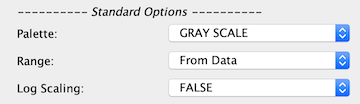
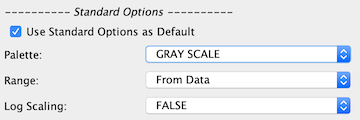
Color Manip: added preference to allow original reader imageInfo

diff --git a/snap-help/src/main/resources/org/esa/snap/snap/help/docs/desktop/ColorManipulationPreferences.html b/snap-help/src/main/resources/org/esa/snap/snap/help/docs/desktop/ColorManipulationPreferences.html
@@ -93,6 +93,9 @@
 </p>
 
 <ul>
+    <li><b>Use Standard Options as Default</b> - Use following "Standard Options" as default
+        when opening a band, otherwise use settings from the file reader.
+    </li>
     <li>
         <b>Palette:</b> - The palette to use for the scheme.
 

diff --git a/snap-rcp/src/main/java/org/esa/snap/rcp/preferences/general/ColorManipulationController.java b/snap-rcp/src/main/java/org/esa/snap/rcp/preferences/general/ColorManipulationController.java
@@ -54,14 +54,19 @@ import java.awt.*;
 public final class ColorManipulationController extends DefaultConfigController {
 
     Property restoreDefaults;
+    Property useStandardOptionsAsDefault;
 
     boolean propertyValueChangeEventsEnabled = true;
 
 
-    Enablement enablementDefaultColorBlindCpd;
-    Enablement enablementDefaultSchemeStandardCpd;
-    Enablement enablementDefaultSchemeColorBlindCpd;
-    Enablement enablementDefaultStandardCpd;
+    Enablement enablementGeneralPalette;
+    Enablement enablementGeneralRange;
+    Enablement enablementGeneralLog;
+
+
+
+
+
 
 
     protected PropertySet createPropertySet() {
@@ -86,6 +91,7 @@ public final class ColorManipulationController extends DefaultConfigController {
         initPropertyDefaults(context, ColorManipulationDefaults.PROPERTY_PALETTE_DEFAULT_ANOMALIES_KEY, ColorManipulationDefaults.PROPERTY_PALETTE_DEFAULT_ANOMALIES_DEFAULT);
 
         initPropertyDefaults(context, ColorManipulationDefaults.PROPERTY_GENERAL_SECTION_KEY, true);
+        initPropertyDefaults(context, ColorManipulationDefaults.PROPERTY_GENERAL_CUSTOM_KEY, ColorManipulationDefaults.PROPERTY_GENERAL_CUSTOM_DEFAULT);
         initPropertyDefaults(context, ColorManipulationDefaults.PROPERTY_GENERAL_PALETTE_KEY, ColorManipulationDefaults.PROPERTY_GENERAL_PALETTE_DEFAULT);
         initPropertyDefaults(context, ColorManipulationDefaults.PROPERTY_GENERAL_RANGE_KEY, ColorManipulationDefaults.PROPERTY_GENERAL_RANGE_DEFAULT);
         initPropertyDefaults(context, ColorManipulationDefaults.PROPERTY_GENERAL_LOG_KEY, ColorManipulationDefaults.PROPERTY_GENERAL_LOG_DEFAULT);
@@ -173,11 +179,13 @@ public final class ColorManipulationController extends DefaultConfigController {
     @Override
     protected void configure(BindingContext context) {
 
+        configureGeneralCustomEnablement(context);
 
         // Handle resetDefaults events - set all other components to defaults
         restoreDefaults.addPropertyChangeListener(evt -> {
             handleRestoreDefaults(context);
         });
+
 
 
         // Add listeners to all components in order to uncheck restoreDefaults checkbox accordingly
@@ -252,6 +260,11 @@ public final class ColorManipulationController extends DefaultConfigController {
     }
 
 
+
+
+
+
+
     /**
      * Set restoreDefault component because a property has changed
      * @param context
@@ -291,21 +304,43 @@ public final class ColorManipulationController extends DefaultConfigController {
 
 
 
+    /**
+     * Configure enablement of the components
+     *
+     * @param context
+     * @author Daniel Knowles
+     */
+    private void configureGeneralCustomEnablement(BindingContext context) {
 
 
+        enablementGeneralPalette = context.bindEnabledState(ColorManipulationDefaults.PROPERTY_GENERAL_PALETTE_KEY, true,
+                ColorManipulationDefaults.PROPERTY_GENERAL_CUSTOM_KEY, true);
+
+        enablementGeneralRange = context.bindEnabledState(ColorManipulationDefaults.PROPERTY_GENERAL_RANGE_KEY, true,
+                ColorManipulationDefaults.PROPERTY_GENERAL_CUSTOM_KEY, true);
+
+        enablementGeneralLog = context.bindEnabledState(ColorManipulationDefaults.PROPERTY_GENERAL_LOG_KEY, true,
+                ColorManipulationDefaults.PROPERTY_GENERAL_CUSTOM_KEY, true);
+
+
+
+        // handle it the first time so bound properties get properly enabled
+        handleGeneralCustom();
+    }
 
     /**
      * Handles enablement of the components
      *
      * @author Daniel Knowles
      */
-    private void handleUseColorBlindEnablement() {
-        enablementDefaultColorBlindCpd.apply();
-        enablementDefaultSchemeColorBlindCpd.apply();
-
-        enablementDefaultStandardCpd.apply();
-        enablementDefaultSchemeStandardCpd.apply();
+    private void handleGeneralCustom() {
+        enablementGeneralPalette.apply();
+        enablementGeneralRange.apply();
+        enablementGeneralLog.apply();
     }
+
+
+
 
 
 
@@ -346,10 +381,17 @@ public final class ColorManipulationController extends DefaultConfigController {
 
         // General Options
 
+
         @Preference(label = ColorManipulationDefaults.PROPERTY_GENERAL_SECTION_LABEL,
                 key = ColorManipulationDefaults.PROPERTY_GENERAL_SECTION_KEY,
                 description = ColorManipulationDefaults.PROPERTY_GENERAL_SECTION_TOOLTIP)
         boolean generalBehaviorSection = true;
+
+
+        @Preference(label = ColorManipulationDefaults.PROPERTY_GENERAL_CUSTOM_LABEL,
+                key = ColorManipulationDefaults.PROPERTY_GENERAL_CUSTOM_KEY,
+                description = ColorManipulationDefaults.PROPERTY_GENERAL_CUSTOM_TOOLTIP)
+        boolean generalCustomSchemes = ColorManipulationDefaults.PROPERTY_GENERAL_CUSTOM_DEFAULT;
 
         @Preference(label = ColorManipulationDefaults.PROPERTY_GENERAL_PALETTE_LABEL,
                 key = ColorManipulationDefaults.PROPERTY_GENERAL_PALETTE_KEY,
@@ -374,6 +416,9 @@ public final class ColorManipulationController extends DefaultConfigController {
                         ColorManipulationDefaults.PROPERTY_GENERAL_LOG_OPTION2,
                         ColorManipulationDefaults.PROPERTY_GENERAL_LOG_OPTION3})
         String generalLog = ColorManipulationDefaults.PROPERTY_GENERAL_LOG_DEFAULT;
+
+
+
 
 
 

diff --git a/snap-rcp/src/main/java/org/esa/snap/rcp/colormanip/ColorManipulationFormImpl.java b/snap-rcp/src/main/java/org/esa/snap/rcp/colormanip/ColorManipulationFormImpl.java
@@ -153,6 +153,7 @@ class ColorManipulationFormImpl implements SelectionSupport.Handler<ProductScene
     private BrightnessContrastPanel brightnessContrastPanel;
     private JTabbedPane tabbedPane;
 
+
     ColorManipulationFormImpl(TopComponent colorManipulationToolView, ColorFormModel formModel) {
         Assert.notNull(colorManipulationToolView);
         Assert.notNull(formModel);
@@ -225,6 +226,15 @@ class ColorManipulationFormImpl implements SelectionSupport.Handler<ProductScene
             if (getFormModel().isContinuous3BandImage() || getFormModel().isDiscrete1BandImage()) {
                 getFormModel().setModifiedImageInfo(getFormModel().getOriginalImageInfo());
             } else {
+                PropertyMap configuration = productSceneView.getSceneImage().getConfiguration();
+
+                if (productSceneView.getImageInfo().getColorSchemeInfo() == null) {
+                    ColorManipulationDefaults.debug("In ColorManipulationFormImpl: colorSchemeInfo =null (setToDefault)");
+                    ColorSchemeUtils.setImageInfoToDefaultColor(configuration, createDefaultImageInfo(), productSceneView, false);
+                } else {
+                    ColorManipulationDefaults.debug("In ColorManipulationFormImpl: colorSchemeInfo =" + productSceneView.getImageInfo().getColorSchemeInfo().toString());
+                }
+
                 ColorManipulationDefaults.debug("In ColorManipulationFormImpl: about to do setModifiedImageInfo ");
                 getFormModel().setModifiedImageInfo(getFormModel().getProductSceneView().getImageInfo());
                 ColorManipulationDefaults.debug("In ColorManipulationFormImpl: finished setModifiedImageInfo ");
@@ -432,7 +442,7 @@ class ColorManipulationFormImpl implements SelectionSupport.Handler<ProductScene
         for (int i = 0; i < additionalButtons.length; i++) {
             AbstractButton button = additionalButtons[i];
             toolButtonsPanel.add(button, gbc);
-                gbc.gridy += 1;
+            gbc.gridy += 1;
         }
 
         if (installAllButtons) {
@@ -570,10 +580,10 @@ class ColorManipulationFormImpl implements SelectionSupport.Handler<ProductScene
 
     private void resetToDefaults() {
         if (getFormModel().isValid()) {
-            PropertyMap configuration = getFormModel().getProductSceneView().getSceneImage().getConfiguration();
+                PropertyMap configuration = getFormModel().getProductSceneView().getSceneImage().getConfiguration();
 
-            ColorSchemeUtils.setImageInfoToDefaultColor(configuration, createDefaultImageInfo(), getFormModel().getProductSceneView());
-            getFormModel().setModifiedImageInfo(getFormModel().getProductSceneView().getImageInfo());
+                ColorSchemeUtils.setImageInfoToDefaultColor(configuration, createDefaultImageInfo(), getFormModel().getProductSceneView(), true);
+                getFormModel().setModifiedImageInfo(getFormModel().getProductSceneView().getImageInfo());
 
             getChildForm().resetFormModel(getFormModel());
         }

diff --git a/snap-rcp/src/main/java/org/esa/snap/rcp/colormanip/ColorSchemeUtils.java b/snap-rcp/src/main/java/org/esa/snap/rcp/colormanip/ColorSchemeUtils.java
@@ -33,7 +33,7 @@ public class ColorSchemeUtils {
      * @param productSceneView
      */
 
-    public static void setImageInfoToDefaultColor(PropertyMap configuration, ImageInfo defaultImageInfo, ProductSceneView productSceneView) {
+    public static void setImageInfoToDefaultColor(PropertyMap configuration, ImageInfo defaultImageInfo, ProductSceneView productSceneView, boolean resetToDefaults) {
 
 
         boolean imageInfoSet = false;
@@ -52,9 +52,18 @@ public class ColorSchemeUtils {
             }
         }
 
+        boolean customDefaultScheme = configuration.getPropertyBool(PROPERTY_GENERAL_CUSTOM_KEY, PROPERTY_GENERAL_CUSTOM_DEFAULT);  //todo make this a preference
+
         if (!imageInfoSet) {
-            colorPaletteSchemes.reset();
-            setImageInfoToGeneralColor(configuration, defaultImageInfo, productSceneView);
+            if (customDefaultScheme) {
+                colorPaletteSchemes.reset();
+                setImageInfoToGeneralColor(configuration, defaultImageInfo, productSceneView);
+            } else {
+                if (resetToDefaults) {
+                    productSceneView.setImageInfo(defaultImageInfo);
+                }
+            }
+
         }
 
     }
